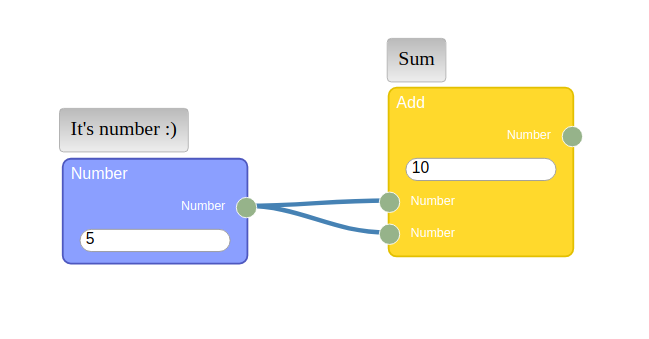
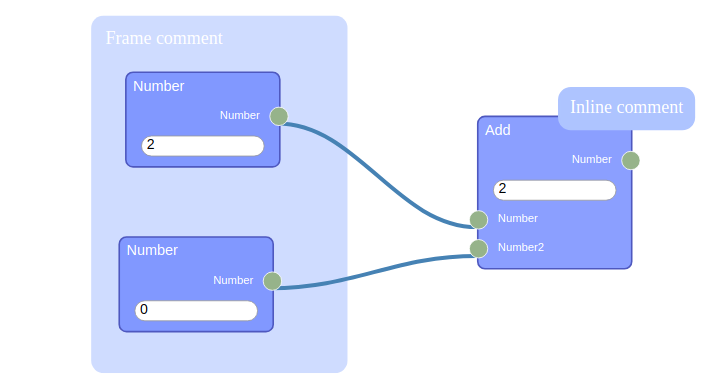
update comment plugin

diff --git a/docs/Plugins.md b/docs/Plugins.md
@@ -182,12 +182,18 @@ worker(node, inputs, data) { // data is 'any data' from run()
 
 ### Comment [![npm](https://img.shields.io/npm/v/rete-comment-plugin.svg)](https://www.npmjs.com/package/rete-comment-plugin)
 
+Comment plugin supports two kinds of comments: **inline** and **frame**. 
+
+Inline comment are attached to target node. 
+
+Frame comments are used as group replacements because it don't affect processing and simply help the developer explore the graph.
+
 ![comment](assets/comment.png)
 
 ```js
 import CommentPlugin from 'rete-comment-plugin';
 
-editor.use(CommentPlugin);
+editor.use(CommentPlugin, { margin: 20 });
 ```
 
 
